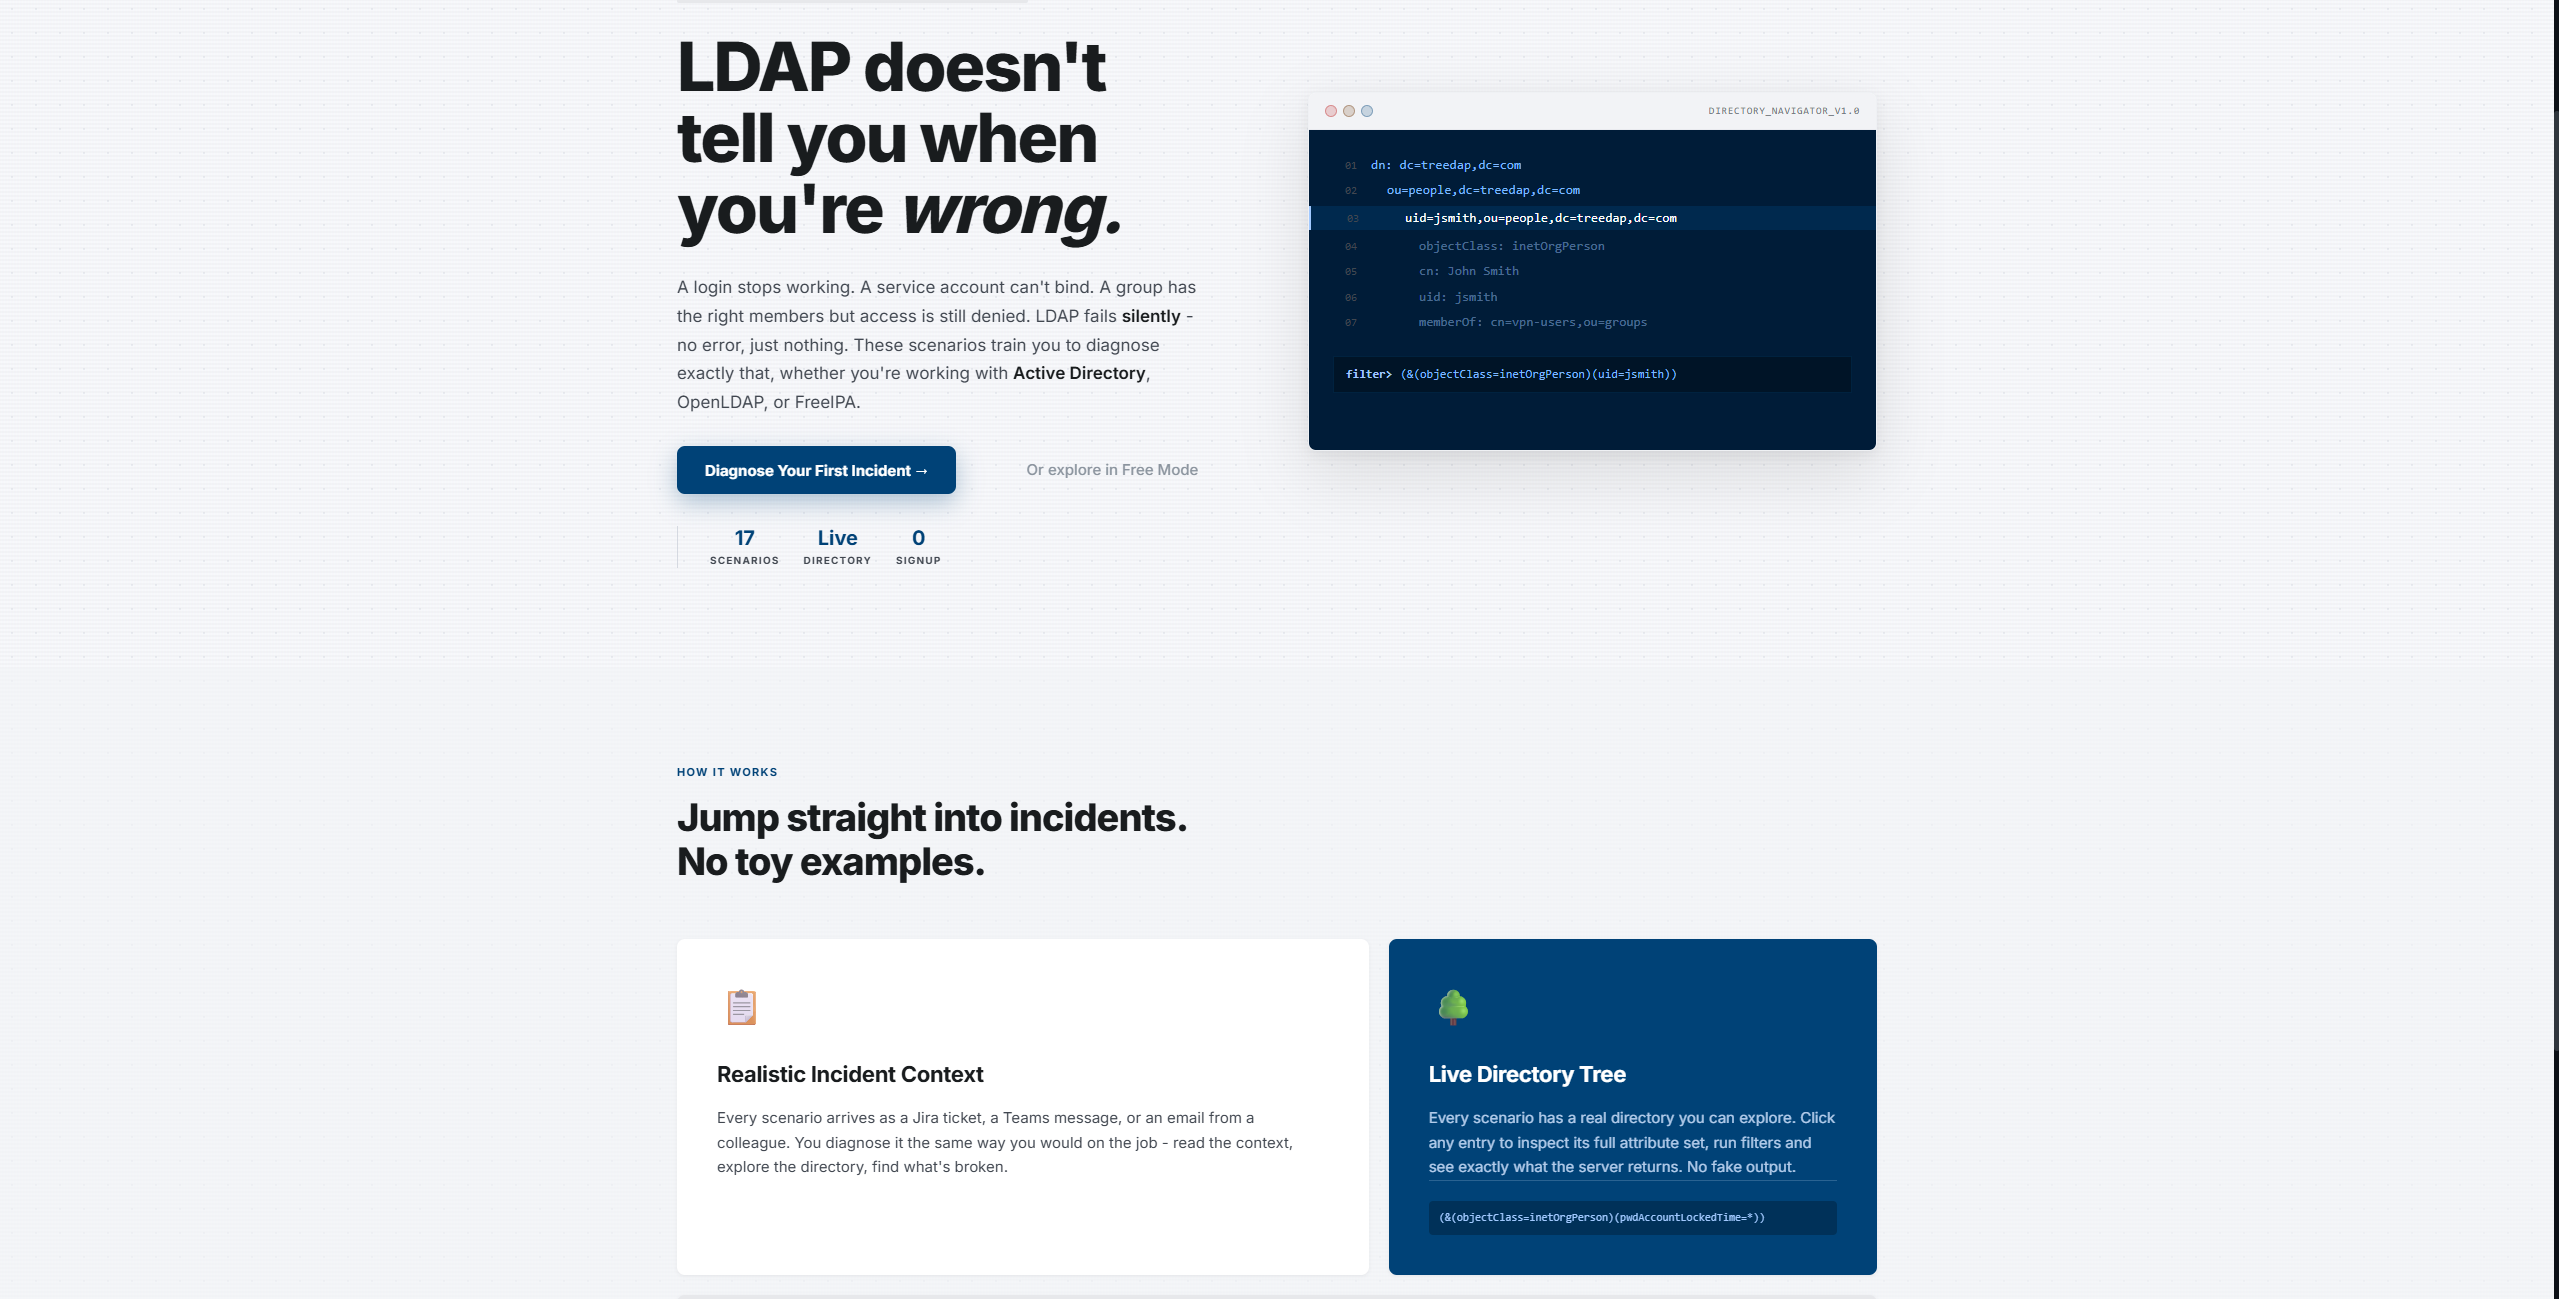
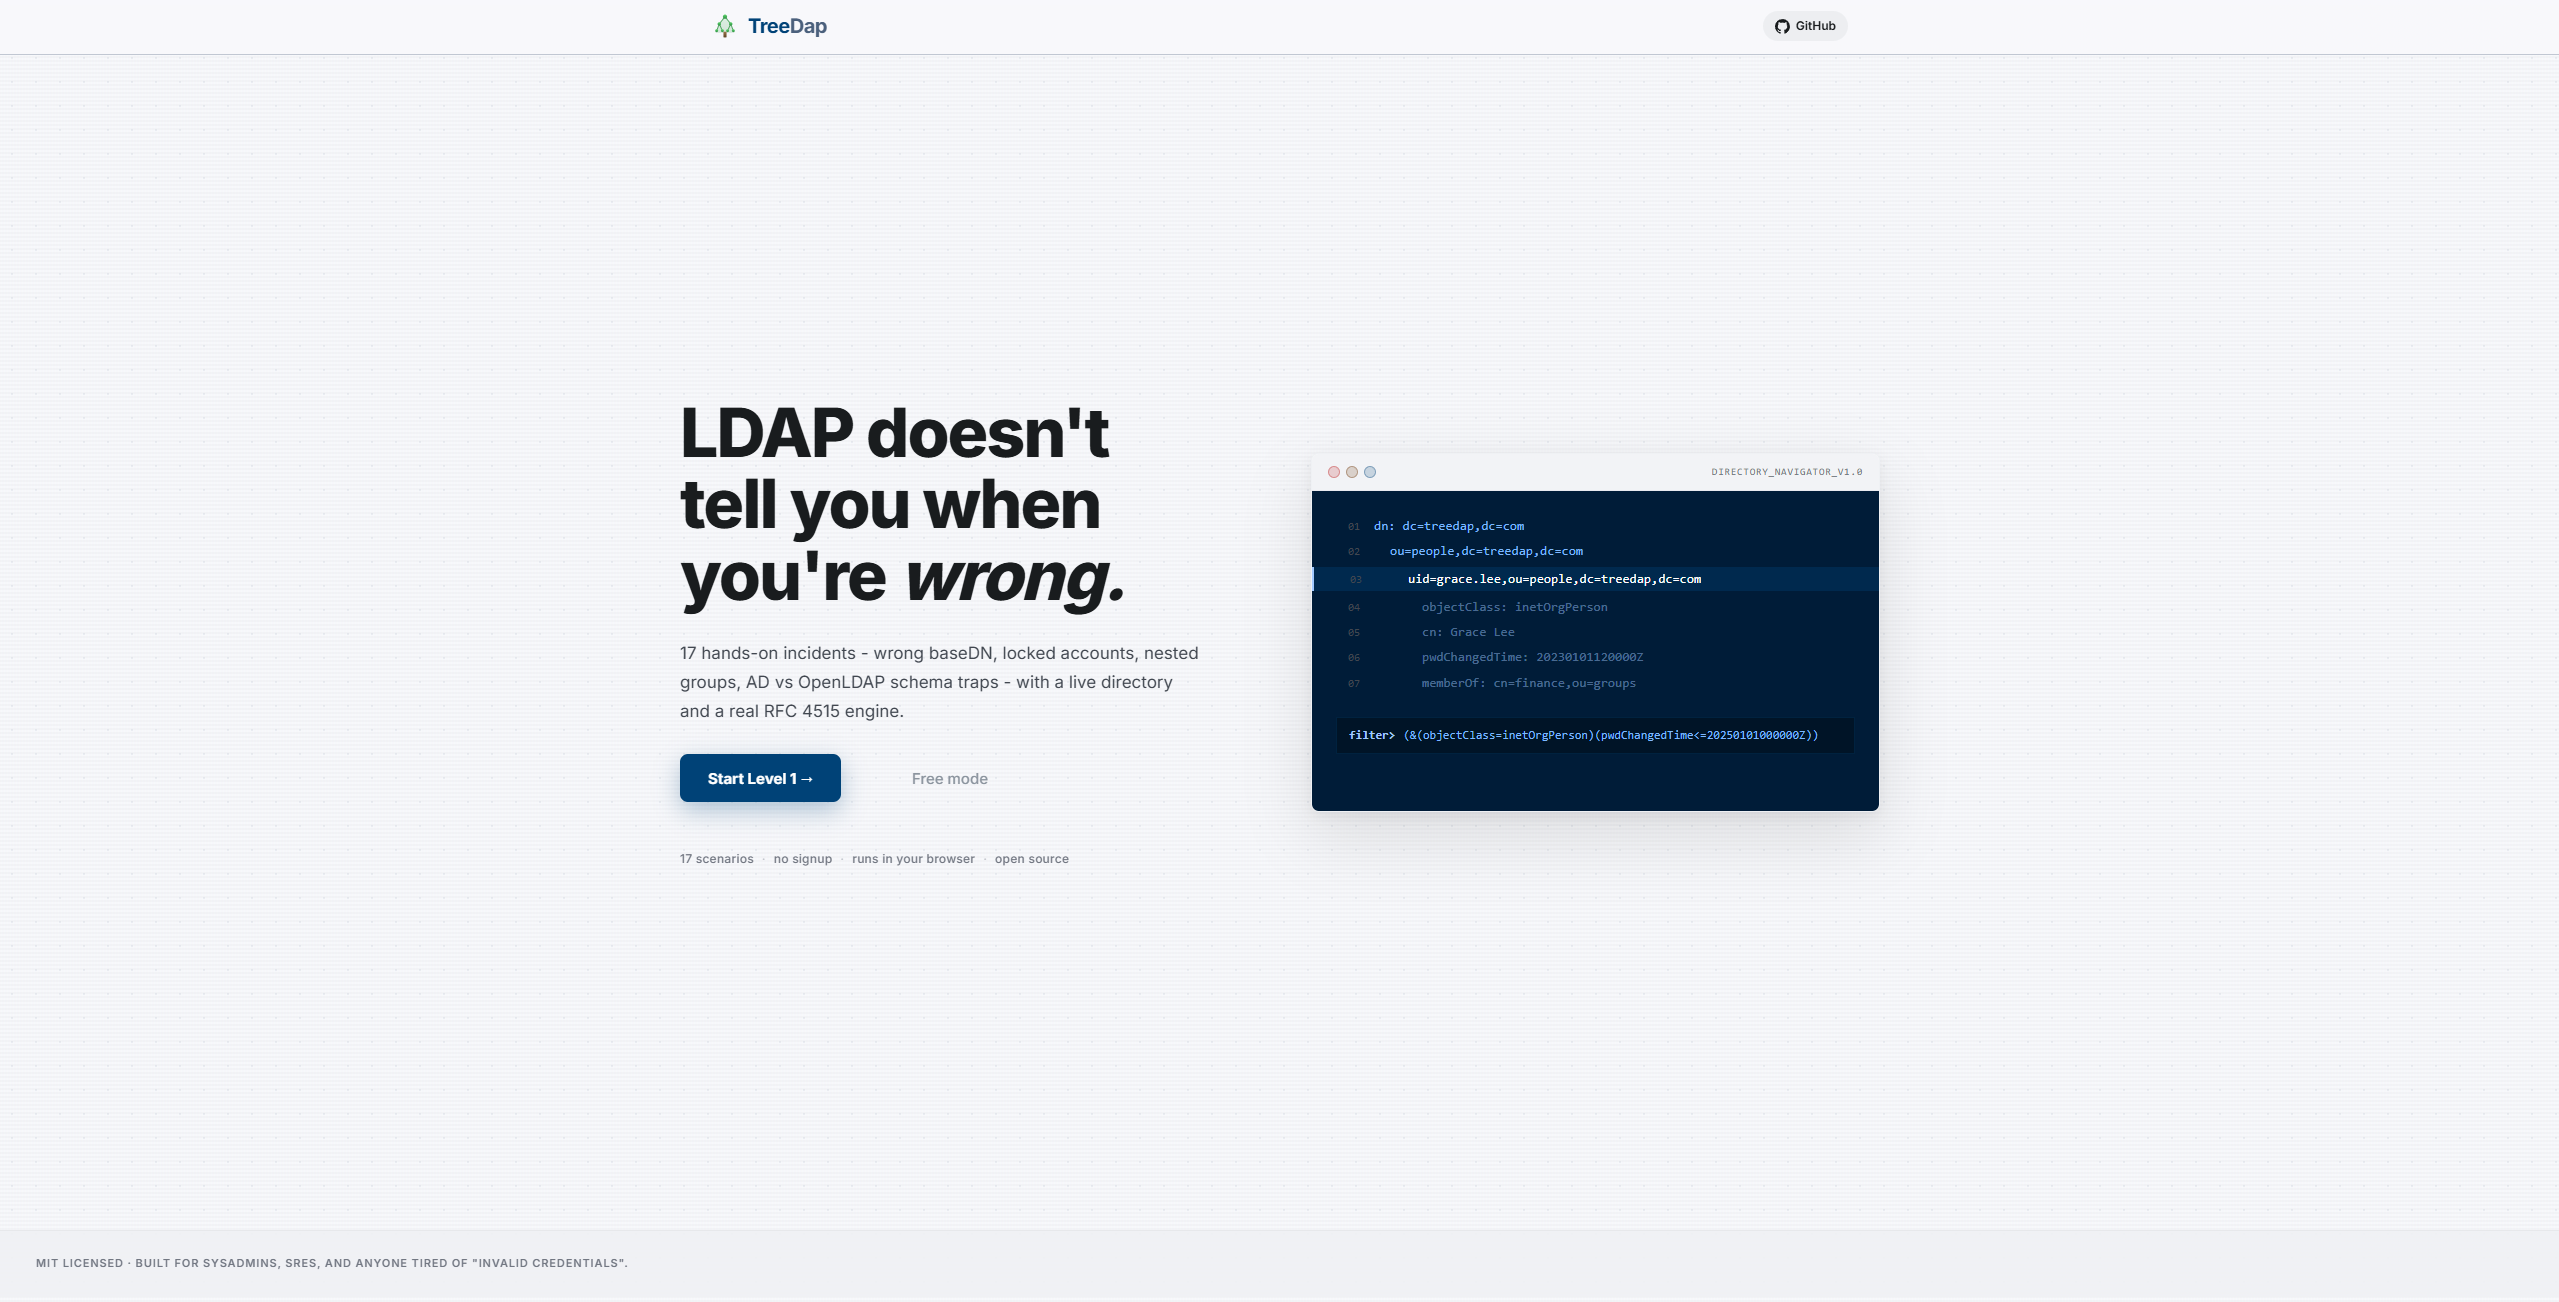
docs: update scenario count to 18

diff --git a/src/components/screens/Landing.tsx b/src/components/screens/Landing.tsx
@@ -40,7 +40,7 @@ export function Landing({ onStart, onFreeMode }: LandingProps) {
             </h1>
 
             <p className="landing-description">
-              17 hands-on incidents - wrong baseDN, locked accounts, nested groups, AD vs OpenLDAP schema traps - with a live directory and a real RFC 4515 engine.
+              18 hands-on incidents - wrong baseDN, locked accounts, nested groups, AD vs OpenLDAP schema traps - with a live directory and a real RFC 4515 engine.
             </p>
 
             <div className="landing-cta-row">
@@ -53,7 +53,7 @@ export function Landing({ onStart, onFreeMode }: LandingProps) {
             </div>
 
             <div className="landing-meta">
-              <span>17 scenarios</span>
+              <span>18 scenarios</span>
               <span className="landing-meta-dot">·</span>
               <span>no signup</span>
               <span className="landing-meta-dot">·</span>

diff --git a/README.md b/README.md
@@ -1,7 +1,7 @@
 # TreeDap
 
 An LDAP troubleshooting trainer that runs in your browser.
-17 scenarios based on bugs I (and probably you) have hit in production: wrong baseDN, scope set to `one` when it should be `sub`, apps searching for `uid` in an AD-synced tree, bind DNs that no longer exist because someone moved the service account into a new OU, and so on.
+18 scenarios based on bugs I (and probably you) have hit in production: wrong baseDN, scope set to `one` when it should be `sub`, apps searching for `uid` in an AD-synced tree, bind DNs that no longer exist because someone moved the service account into a new OU, and so on.
 
 Live at [treedap.com](https://treedap.com). No signup, no backend, everything runs client-side.
 
@@ -17,7 +17,7 @@ This project is the step by step guide I wished for. Each use case is a message,
 
 **Three intro levels** covering the minimum vocabulary: entries, DNs, `objectClass`, baseDN + scope.
 
-**Fourteen troubleshooting scenarios** across:
+**Fifteen troubleshooting scenarios** across:
 
 - filter-writing mistakes (wrong attribute, missing NOT, nested groups)
 - scope and baseDN misconfigurations (the classic "worked on dev, empty on prod")
@@ -72,7 +72,7 @@ Context copy lives in the same object. Keep it grounded in a ticket or a message
 
 PRs welcome, useful areas:
 
-- more scenarios, especially around ACL / ACIs, replication lag, referrals
+- more scenarios, especially around ACL / ACIs, referrals
 - better AD coverage (`tokenGroups`, `userAccountControl` bit checks, though the engine would need extending)
 - better mobile story (right now mobile just shows a "come back on a laptop" wall)
 - accessibility (keyboard nav on the directory tree is rudimentary)
